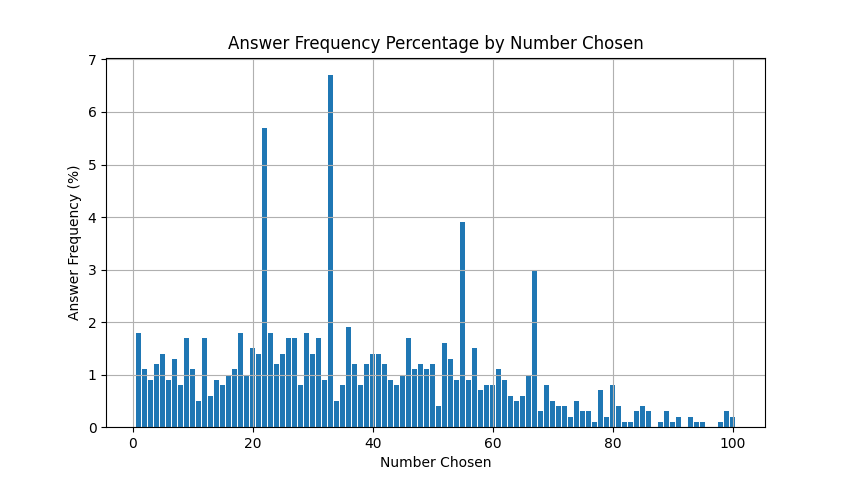
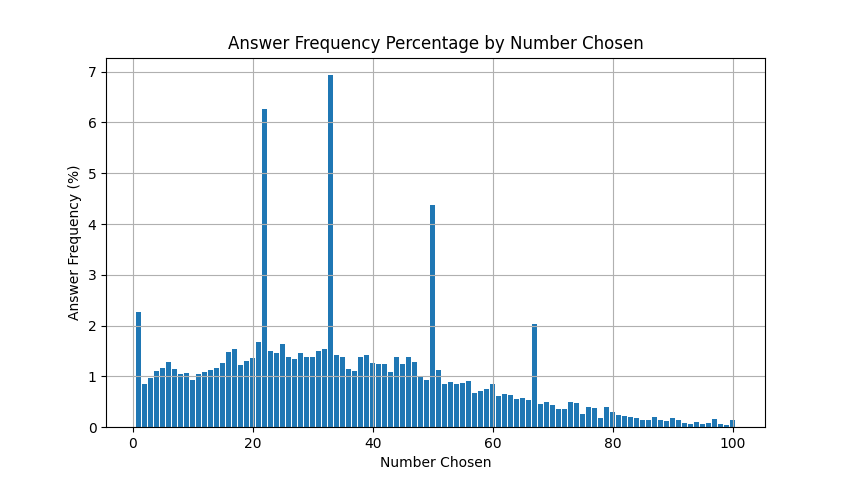
fsdfsdfsd

diff --git a/two-thirds-game/player.py b/two-thirds-game/player.py
@@ -1,60 +1,27 @@
 
 from math import ceil
 import random
+
 CHOICE_RANGE = [1, 100]
-# random chance for the player to give a mainstream answer, otherwise there are to many players answering 1
-# main stream answers: Players that answer on 100*(2/3)^n
-MAIN_STREAM_ANSWER_CHANCE = 0.8
-
-MEAN_ANSWER = 30
-SIGMA_SCALE = 30
-
-def get_random_mainstream_answer():
-    stream_selection_random = random.uniform(0,1)
-    if stream_selection_random < (3/9):
-        return 22
-    elif stream_selection_random < (6/9):
-        return 33
-    elif stream_selection_random < (8/9):
-        return 55
-    else:
-        return 67
 
 class Player:
     id = -1
-    noise_range = 0 # random number from range is added or subtracted from answer
-    answer = 0
     score = 0
+    reasoning_depth = 0 # how many times the player will do 2/3 multiplications to get to the answer
+    answer = 0
+    noise_range = 5 # random number from range is added or subtracted from answer
 
-    def __init__(self, id):
+    def __init__(self, id, reasoning_depth=0):
         self.id = id
-        self.score = 0
-
-    def add_win(self):
-        self.score += 1
+        self.reasoning_depth = round(max(0, reasoning_depth))
     
-    # Starting from a random answer a player with thinking_depth closer to 1 will do more 2/3 multiplications
-    def give_answer(self, mean_answer=MEAN_ANSWER, sigma_scale=SIGMA_SCALE):
-        gaussian_answer = round(random.gauss(mean_answer, sigma_scale))
-        gaussian_answer = max(CHOICE_RANGE[0], min(CHOICE_RANGE[1], gaussian_answer))
-        if gaussian_answer == CHOICE_RANGE[0] and random.uniform(0,1) < MAIN_STREAM_ANSWER_CHANCE:
-            return get_random_mainstream_answer()
-        elif gaussian_answer == CHOICE_RANGE[0] and random.uniform(0,1) < 0.5:
-            return random.uniform(15, 35)
-        if gaussian_answer == CHOICE_RANGE[1] and random.uniform(0,1) < 0.75:
-            return self.give_answer(MEAN_ANSWER, sigma_scale // 4)
-        return gaussian_answer
+    def guess_number(self):
+        guessed_number = 50
+        for _ in range(self.reasoning_depth):
+            guessed_number = guessed_number * 2 / 3
+        noise = random.uniform(-self.noise_range, self.noise_range)
+        if random.random() < 0.5:
+            guessed_number += noise
+        self.answer = max(CHOICE_RANGE[0], min(CHOICE_RANGE[1], guessed_number))
+        return self.answer
         
-def main():
-    answers = []
-    lowest_answer = 100
-    for id in range(100):
-        player = Player(id=id)
-        answers.append(player.give_answer())
-        print(f"{player.answer}")
-        if player.answer < lowest_answer:
-            lowest_answer = player.answer
-    print(f"Average answer: {sum(answers)/len(answers)}")
-    print(f"Lowest answer: {lowest_answer}")
-if __name__ == "__main__":
-    main()

diff --git a/two-thirds-game/plot_numbers_chosen.py b/two-thirds-game/plot_numbers_chosen.py
@@ -5,7 +5,7 @@ from Game import get_winning_number, create_opponents
 from player import Player
 from plot_winning_numbers_per_mean import determine_winners
 
-NUMBER_OF_PLAYERS = 1000
+NUMBER_OF_PLAYERS = 10000
 NUMBER_OF_ROUNDS = 1
 CHOICE_RANGE = [1, 100]
 MEAN_PLAYER_INTELLIGENCE = 0.25 # 1 is most inttelligent, 0 is least intelligent
@@ -32,14 +32,14 @@ def main():
     opponents: list[Player] = create_opponents(NUMBER_OF_PLAYERS)
     answer_frequency = {number: 0 for number in range(CHOICE_RANGE[0], CHOICE_RANGE[1] + 1)}
     for round in range(NUMBER_OF_ROUNDS):
-        answers = [opponent.give_answer() for opponent in opponents]
+        answers = [opponent.guess_number() for opponent in opponents]
         winning_number = get_winning_number(answers)
         winners = determine_winners(opponents, winning_number)
         for answer in answers:
             chosen_number = max(CHOICE_RANGE[0], min(CHOICE_RANGE[1], int(answer + 0.5)))
             answer_frequency[chosen_number] += 1
         for winner in winners:
-            winner.add_win()
+            winner.score += 1
 
     opponents.sort(key=lambda x: x.score, reverse=False)
     plot_results(answer_frequency)

diff --git a/two-thirds-game/plot_winning_numbers_per_mean.py b/two-thirds-game/plot_winning_numbers_per_mean.py
@@ -30,7 +30,7 @@ def get_winning_number(answers):
 def determine_winners(opponents, winning_number):
     winners = []
     for opponent in opponents:
-        if opponent.give_answer() == winning_number:
+        if opponent.guess_number() == winning_number:
             winners.append(opponent)
     return winners
 
@@ -62,12 +62,12 @@ def main():
         opponents = create_opponents(mean_intelligence=mean_intelligence)
         winning_numbers = {}
         for round in range(NUMBER_OF_ROUNDS):
-            answers = [opponent.give_answer() for opponent in opponents]
+            answers = [opponent.guess_number() for opponent in opponents]
             winning_number = get_winning_number(answers)
             winning_numbers[winning_number] = winning_numbers.get(winning_number, 0) + 1
             winners = determine_winners(opponents, winning_number)
             for winner in winners:
-                winner.add_win()
+                winner.score += 1
         opponents.sort(key=lambda x: x.score, reverse=True)
         for opponent in opponents:
             print(f"Player {opponent.id}, int: {opponent.thinking_steps:.2f}, score {opponent.score}")

diff --git a/two-thirds-game/plot_number_chosen_by_intelligence.py b/two-thirds-game/plot_number_chosen_by_intelligence.py
@@ -27,7 +27,7 @@ def main():
     opponents: list[Player] = create_opponents(NUMBER_OF_PLAYERS, MEAN_PLAYER_INTELLIGENCE, SIGMA_SCALE)
     answers_by_intelligence = {}
     for round in range(NUMBER_OF_ROUNDS):
-        answers = [opponent.give_answer() for opponent in opponents]
+        answers = [opponent.guess_number() for opponent in opponents]
         winning_number = get_winning_number(answers)
         winners = determine_winners(opponents, winning_number)
         for opponent in opponents:
@@ -35,7 +35,7 @@ def main():
                 answers_by_intelligence[opponent.reasoning_depth] = []
             answers_by_intelligence[opponent.reasoning_depth].append(opponent.answer)
         for winner in winners:
-            winner.add_win()
+            winner.score += 1()
     
     avg_answers_by_intelligence = {}
     for intelligence, answers in answers_by_intelligence.items():

diff --git a/two-thirds-game/plot_winning_count_by_intelligence.py b/two-thirds-game/plot_winning_count_by_intelligence.py
@@ -26,11 +26,11 @@ def plot_results(wins_by_intelligence):
 def main():
     opponents: list[Player] = create_opponents(NUMBER_OF_PLAYERS, MEAN_PLAYER_INTELLIGENCE, SIGMA_SCALE)
     for round in range(NUMBER_OF_ROUNDS):
-        answers = [opponent.give_answer() for opponent in opponents]
+        answers = [opponent.guess_number() for opponent in opponents]
         winning_number = get_winning_number(answers)
         winners = determine_winners(opponents, winning_number)
         for winner in winners:
-            winner.add_win()
+            winner.score += 1()
     wins_by_intelligence = {}
     for opponent in opponents:
         if opponent.thinking_steps not in wins_by_intelligence:

diff --git a/two-thirds-game/Game.py b/two-thirds-game/Game.py
@@ -7,7 +7,7 @@ from player import Player
 def create_opponents(number_of_players):
     opponents = []
     for id in range(number_of_players):
-        opponents.append(Player(id=id))
+        opponents.append(Player(id=id, reasoning_depth=round(random.uniform(0, 5))))
     return opponents
 
 def get_winning_number(answers):

diff --git a/two-thirds-game/test.md b/two-thirds-game/test.md
@@ -1,0 +1,125 @@
+Dein Problem ist eigentlich kein Problem – sondern genau der Punkt, an dem deine Arbeit interessant wird.
+
+Die Grafik zeigt nur ein **empirisches Muster**. Deine Simulation kann (und sollte) mehr leisten als „nochmal dasselbe Bild erzeugen“. Im Moment wirkt dein Text aber so, als wäre die Simulation nur eine Replikation. Das ist zu wenig. Du musst klar machen, **welche zusätzliche Erkenntnis** sie liefert.
+
+Hier sind die drei stärksten Richtungen, die du nutzen kannst:
+
+---
+
+## 1. Von Beschreibung zu Erklärung (wichtigster Punkt)
+
+Die Grafik sagt:
+
+> Viele Leute wählen 33, einige 22, wenige 1.
+
+Aber sie beantwortet nicht:
+
+* *Warum genau diese Verteilung entsteht*
+* *Warum Level-2 oft gewinnt*
+* *Warum das Nash-Gleichgewicht verfehlt wird*
+
+👉 Deine Simulation kann genau das leisten:
+
+Du modellierst:
+
+* beschränkte Rationalität (bounded rationality)
+* Kosten des Denkens
+* Verteilung von „Intelligenz“ bzw. k-Leveln
+
+**→ Das ist der Übergang von klassischer Spieltheorie zu algorithmischer Spieltheorie.**
+
+💡 Formuliere es so:
+
+> Während die empirischen Daten lediglich das Verhalten beschreiben, erlaubt die Simulation, dieses Verhalten aus mikroökonomischen Annahmen über begrenzte Rationalität und Rechenkosten zu erklären.
+
+---
+
+## 2. Was deine Simulation konkret zeigt (das musst du klar herausarbeiten)
+
+Im Moment steht das implizit da, aber nicht deutlich genug. Deine Simulation zeigt eigentlich drei Dinge:
+
+### (a) Endogene Entstehung von k-Leveln
+
+Die Peaks (67, 50, 33, 22) entstehen nicht „einfach so“, sondern aus:
+
+* unterschiedlichen Denk-Tiefen
+* Kostenstruktur ( \gamma \cdot c )
+
+👉 Das ist ein starkes Argument:
+
+> Die beobachteten Level-k Strategien müssen nicht angenommen werden, sondern entstehen endogen aus dem Modell.
+
+---
+
+### (b) Optimales Verhalten ist **nicht** maximale Rationalität
+
+Du hast schon den wichtigsten Satz fast fertig:
+
+> Der Gewinner ist nicht der rationalste Spieler.
+
+Mach das schärfer:
+
+> In einer Population begrenzt rationaler Spieler ist es optimal, **nicht vollständig rational zu sein**, sondern die Rationalität der anderen korrekt einzuschätzen.
+
+Das ist ein klassisches Ergebnis in algorithmischer Spieltheorie / bounded rationality.
+
+---
+
+### (c) Sensitivität / Parameteranalyse (hier liegt Gold!)
+
+Das ist aktuell noch zu schwach genutzt:
+
+Du hast Parameter:
+
+* mean intelligence
+* Kostengewicht ( \gamma )
+
+👉 Das ist deine Chance:
+
+Zeige:
+
+* Wenn ( \gamma ) steigt → weniger tiefes Denken → höhere Zahlen
+* Wenn Durchschnitts-Intelligenz steigt → Gleichgewicht verschiebt sich Richtung 1
+
+💡 Das ist etwas, was die Grafik **nicht kann**.
+
+---
+
+## 3. Konkreter Vorschlag für deinen Text (Überleitungssatz)
+
+Hier ist ein sauberer Übergang, den du fast direkt verwenden kannst:
+
+> Die empirische Verteilung legt nahe, dass viele Spieler nur wenige Iterationen des beschriebenen Denkprozesses durchführen. Allerdings bleibt unklar, warum genau diese Verteilung von Strategien entsteht und weshalb insbesondere Spieler mit etwa zwei Iterationen (Level-2) besonders erfolgreich sind.
+> Um diese Fragen zu untersuchen, wird im Folgenden eine Simulation vorgestellt, in der Spieler unterschiedliche k-Level sowie Kosten für kognitiven Aufwand besitzen. Dadurch lässt sich analysieren, wie sich beobachtetes Verhalten aus individuellen Entscheidungsprozessen ergibt.
+
+---
+
+## 4. Was du streichen solltest (ehrlich gesagt)
+
+Dieser Teil ist zu schwach / redundant:
+
+> „Die simulierten Spieler geben also Antworten ähnlich dem Muster echter Menschen.“
+
+→ Das allein reicht nicht für eine Thesis.
+
+Stattdessen:
+
+* Fokus auf **Mechanismus**
+* Fokus auf **Erklärung**
+* Fokus auf **Parametereffekte**
+
+---
+
+## 5. Der eigentliche „Aha-Moment“ deiner Arbeit
+
+Wenn du es richtig formulierst, ist dein Ergebnis ziemlich stark:
+
+> Rationalität ist kontextabhängig. In strategischen Situationen mit begrenzt rationalen Gegnern ist es optimal, deren Begrenztheit zu antizipieren, anstatt selbst vollständig rational zu handeln.
+
+Oder kürzer:
+
+> **Es ist rational, irrational zu sein – wenn die anderen es auch sind.**
+
+---
+
+Wenn du willst, kann ich dir den Abschnitt „Das 2/3 Spiel: Algorithmisch betrachtet“ einmal komplett sauber in Thesis-Qualität umformulieren.
